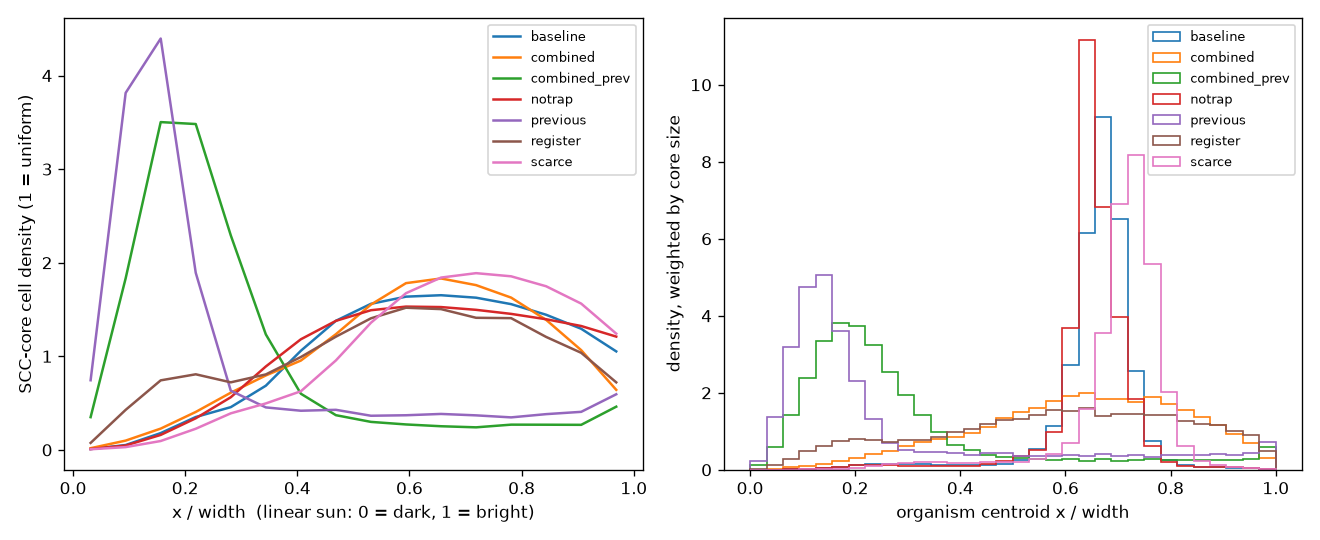
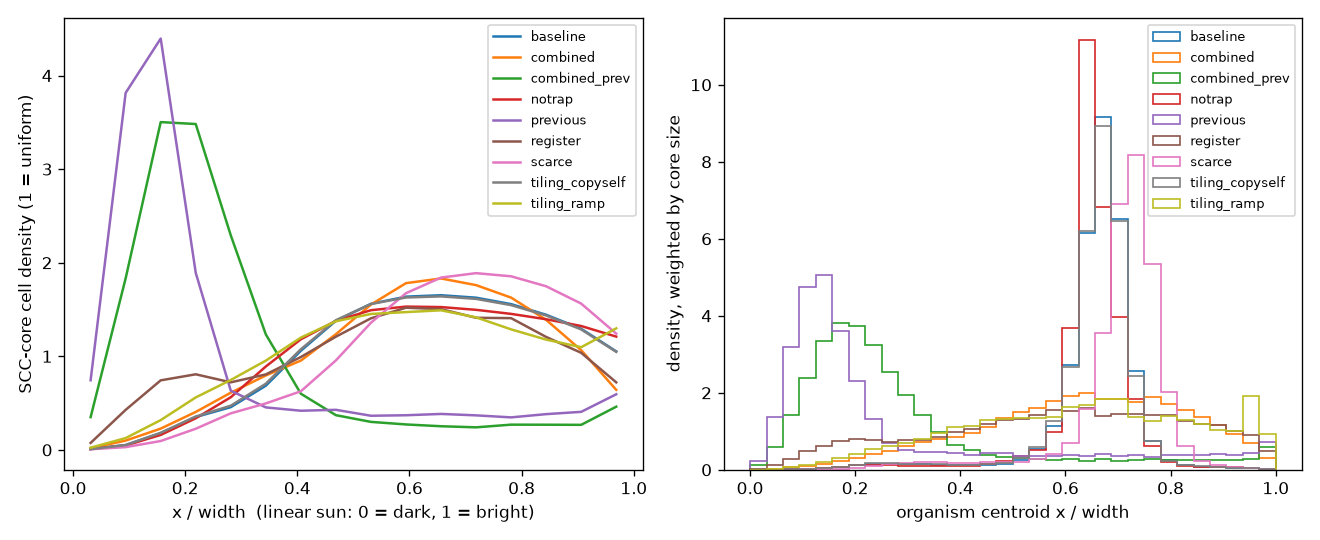
Tiling ramp results and final §8 variants write-up
Seeded template structure under a noise ramp: vitality 1.5e-4 (median
noise at which the last column loop dissolves), seven times below the
baseline noise; the copy-self control destroys the seed within one sweep.
results/variants/README.md has the full analysis; results/README.md
points to it.

Claude-Session: https://claude.ai/code/session_01KjQMssHXdCXbNQURKaQW9d

diff --git a/results/variants/README.md b/results/variants/README.md
@@ -34,11 +34,12 @@ combination behaves like `register` with a slightly larger, still empty, repair 
 A hand-designed structure that *is* self-maintaining under register repair (columns
 alternating `Repair(S)`/`Load(N)`, each cell rewriting its south neighbour from its
 north neighbour's byte) is an exact fixed point without noise and cannot be expressed
-under copy-self at all — but at noise 0.001 it melts within ~1 000 ticks at 128×128.
-The reason is the execution model, not the repair rule: a mutated byte is *executed as
-an instruction* by its eight neighbours before the next repair lands, and about half of
-all random bytes corrupt the executor's register or write somewhere wrong, so each error
-seeds roughly one more. Its measured vitality is in the tiling section below.
+under copy-self at all — but its measured **vitality is 1.5 × 10⁻⁴** (median noise rate at which the
+last column dissolves under a ramp), about seven times below the baseline noise of
+10⁻³; at 10⁻³ it is gone within ~1 000 ticks. The reason is the execution model, not
+the repair rule: a mutated byte is *executed as an instruction* by its eight neighbours
+before the next repair lands, and about half of all random bytes corrupt the executor's
+register or write somewhere wrong, so each error seeds roughly one more.
 
 ## Per-experiment results
 
@@ -104,7 +105,45 @@ largest 5 455 — a transient at low sun where dying cells are re-randomised oft
 
 ### Hand-designed template structure (`tiling_ramp`, `tiling_copyself`)
 
-*(filled in below from the ramp runs)*
+Eight columns at the bright edge (x = 120–127), rows alternating `Repair(S)` /
+`Load(N)`, registers pre-loaded; sun 4 so the `Load(N)` cells (3 energy per tick) are
+affordable; noise ramped 0 → 0.002 over the run so that its dissolution point is a
+vitality in the plan's sense. Each column is a closed torus loop in which every cell
+rewrites its south neighbour from its north neighbour's byte, so the repair graph shows
+eight 128-cell SCCs.
+
+| | `tiling_ramp` (register + no-self-jump) | `tiling_copyself` (plan's repair) |
+|---|---|---|
+| column loops alive at t = 100 / 500 / 1000 / 2000 / 3000 / 5000 / 8000 (of 8, mean over 20 seeds) | 6.3 / 4.2 / 3.4 / 2.0 / 1.5 / 0.5 / 0 | 0.1 / 0 / 0 / 0 / 0.1 / 0 / 0 |
+| tick of the last surviving column loop, median (min–max) | 7 500 (800–90 600) | none survive the first sweep |
+| noise rate at that tick = **vitality**, median (min–max) | **1.5 × 10⁻⁴** (2 × 10⁻⁵ – 1.8 × 10⁻³) | — |
+| byte stability of a living loop over a 100-tick lag | 0.84–0.88 | — |
+| background stability at the same time | 0.89–0.92 | 0.23–0.32 |
+| persistence of a living loop | 0.5 (1.2 in the first window) | 0.3–0.5 (soup) |
+
+* Under the plan's repair the seed is destroyed within the first neighbourhood sweep:
+  copy-self `Repair(S)` cells overwrite the `Load(N)` rows with `Repair(S)`, the band
+  becomes ordinary soup (max size 11 444, one tracked piece), and the run is
+  indistinguishable from `seeded` in the first protocol.
+* Under register repair the structure does what it was designed to do — while a column
+  is alive, 84–88 % of its bytes survive a 100-tick lag against a design that rewrites
+  every one of them 3–6 times per sweep — but it erodes at roughly one column per
+  1 000 ticks even while the ramp is still below 10⁻⁴, and the last column goes at a
+  median noise of 1.5 × 10⁻⁴: **its vitality is about seven times below the baseline
+  noise rate of 10⁻³.** Two things erode it. The band's outer columns have three
+  background slots in their programs, so foreign bytes enter through the edges even at
+  zero noise (the zero-noise control keeps ~96 % of the interior but loses the edges).
+  And inside, a single mutated byte is executed as an instruction by its eight
+  neighbours before the next repair lands; the ~half of random bytes that are `Load`,
+  `Cmp`, `Store`, a wrong-direction `Repair` or a jump corrupt the executor's register
+  or ip, and the next `Repair(S)` writes that corruption into the column below.
+* The persistence metric, as specified, does not reward it: its MI is real (stability
+  0.85 while the background changes… 10 %), but the register-mode background is *also*
+  frozen — 90 % of untouched bytes survive the lag because nothing writes any more —
+  so the ratio sits at 0.5. Only in the first window, before the background settles,
+  does it read 1.2. The metric can only see maintenance against a decorrelating
+  background, and at the noise where this background decorrelates the structure is
+  long gone.
 
 ## What this says about the substrate
 
@@ -120,7 +159,7 @@ largest 5 455 — a transient at low sun where dying cells are re-randomised oft
    neighbours, executed once per 9-tick sweep by each, so a corrupted byte does
    damage ~1–3 times before repair (3–6 repairs per sweep) can land, and about half of
    the 256 bytes corrupt a register or write somewhere wrong. That is a branching
-   factor near one; the tiling's vitality measures where it crosses one.
+   factor near one; the tiling's vitality of 1.5 × 10⁻⁴ is where it crosses one.
 4. Frozen background is the other half of the problem: with almost nothing writing,
    72–77 % of the background is unchanged over a window, so nothing short of a noise
    ramp can separate "maintained" from "untouched". At the noise levels where the

diff --git a/results/variants/plots/summary.md b/results/variants/plots/summary.md
@@ -9,6 +9,24 @@
 | previous | 20 | 20020 | 2.5 | 9 | 78 | 90728 | 15729 | 0.000 | 0.00 | 0.0 | 0 | 2.6 | 0.77 |
 | register | 20 | 20020 | 16.8 | 94 | 951 | 353594 | 146007 | 0.000 | 0.00 | 0.0 | 0 | 9.9 | 0.72 |
 | scarce | 20 | 20020 | 145.2 | 7032 | 11429 | 6049159 | 941147 | 0.269 | 0.71 | 5.2 | 15384 | 140.5 | 0.21 |
+| tiling_copyself | 20 | 20020 | 123.6 | 8606 | 12843 | 5091253 | 814408 | 0.178 | 0.41 | 2.9 | 8576 | 137.2 | 0.25 |
+| tiling_ramp | 20 | 20020 | 40.7 | 355 | 7456 | 950580 | 359566 | 0.000 | 0.00 | 0.0 | 9 | 15.6 | 0.60 |
+
+## Vitality (noise ramp experiments)
+
+| experiment | organisms died | survived to end | vitality median | vitality p90 | max | median of organisms with max_size>=10 |
+|---|---|---|---|---|---|---|
+| tiling_copyself | 814279 | 129 | 0.0010 | 0.0018 | 0.0020 | 0.0009 |
+| tiling_ramp | 359384 | 182 | 0.0012 | 0.0018 | 0.0020 | 0.0011 |
+
+## Extinction under the noise ramp
+
+Per seed: the noise rate at the last frame that still had an SCC of the given size. Median (min–max) over seeds.
+
+| experiment | extinction noise, any SCC (>= min_size) | extinction noise, SCC >= 10 cells | extinction noise, SCC >= 100 cells | noise where mean core cells first < 1% of grid |
+|---|---|---|---|---|
+| tiling_copyself | 0.0020 (0.0020–0.0020) | 0.0020 (0.0020–0.0020) | 0.0020 (0.0020–0.0020) | never |
+| tiling_ramp | 0.0020 (0.0020–0.0020) | 0.0020 (0.0020–0.0020) | 0.0020 (0.0019–0.0020) | never |
 
 ## Lifetimes (organisms that lived >= report_min_life = one window)
 
@@ -21,6 +39,8 @@
 | previous | 15729 | 100 | 120 | 1160 | 1 | 78 |
 | register | 146007 | 100 | 300 | 4200 | 120 | 1311 |
 | scarce | 941147 | 100 | 180 | 9480 | 222 | 11429 |
+| tiling_copyself | 814408 | 100 | 180 | 21120 | 129 | 13265 |
+| tiling_ramp | 359566 | 120 | 280 | 7520 | 182 | 7634 |
 
 ## Localisation along the sun gradient (x)
 
@@ -35,6 +55,8 @@ Core-cell density: fraction of all SCC-core cells (over all frames) per x band. 
 | previous | 0.678 | 0.121 | 0.093 | 0.108 | 0.287 | 0.278 |
 | register | 0.128 | 0.233 | 0.365 | 0.273 | 0.576 | 0.541 |
 | scarce | 0.022 | 0.154 | 0.423 | 0.401 | 0.701 | 0.513 |
+| tiling_copyself | 0.037 | 0.228 | 0.403 | 0.332 | 0.652 | 0.426 |
+| tiling_ramp | 0.064 | 0.267 | 0.365 | 0.304 | 0.623 | 0.541 |
 
 ## Run totals (mean per seed)
 
@@ -47,3 +69,5 @@ Core-cell density: fraction of all SCC-core cells (over all frames) per x band. 
 | previous | 1.6e+09 | 8.56e+06 | 1.21e+07 | 1.5e+06 | 1.64e+06 | 53.2 |
 | register | 1.6e+09 | 5.17e+07 | 1.3e+07 | 1.83e+06 | 1.64e+06 | 56.5 |
 | scarce | 1.54e+09 | 3.82e+08 | 1.1e+08 | 3.59e+07 | 1.64e+06 | 100.6 |
+| tiling_copyself | 1.55e+09 | 5.65e+08 | 9.54e+07 | 3.32e+07 | 1.64e+06 | 95.7 |
+| tiling_ramp | 1.6e+09 | 1.04e+08 | 1.54e+07 | 2.95e+06 | 1.64e+06 | 64.5 |

diff --git a/results/README.md b/results/README.md
@@ -181,6 +181,11 @@ above.
 
 ## What to change next (plan §8, informed by the above)
 
+*Update: items 1–3 were run; see `variants/README.md`. Template repair removes the soup
+and nothing replaces it; the trap fix alone changes nothing; scarcity thins the soup. A
+hand-designed template structure is an exact fixed point without noise but has a
+vitality of 1.5 × 10⁻⁴, because every byte is executed as code by its eight neighbours.*
+
 1. **`Repair` should not copy `self.instr`.** The §8 alternative — copy from the cell
    behind in the `ip` chain — makes repair an act of *reading a template* rather than
    *cloning yourself*, so a heterogeneous structure can be maintained and a mutation
